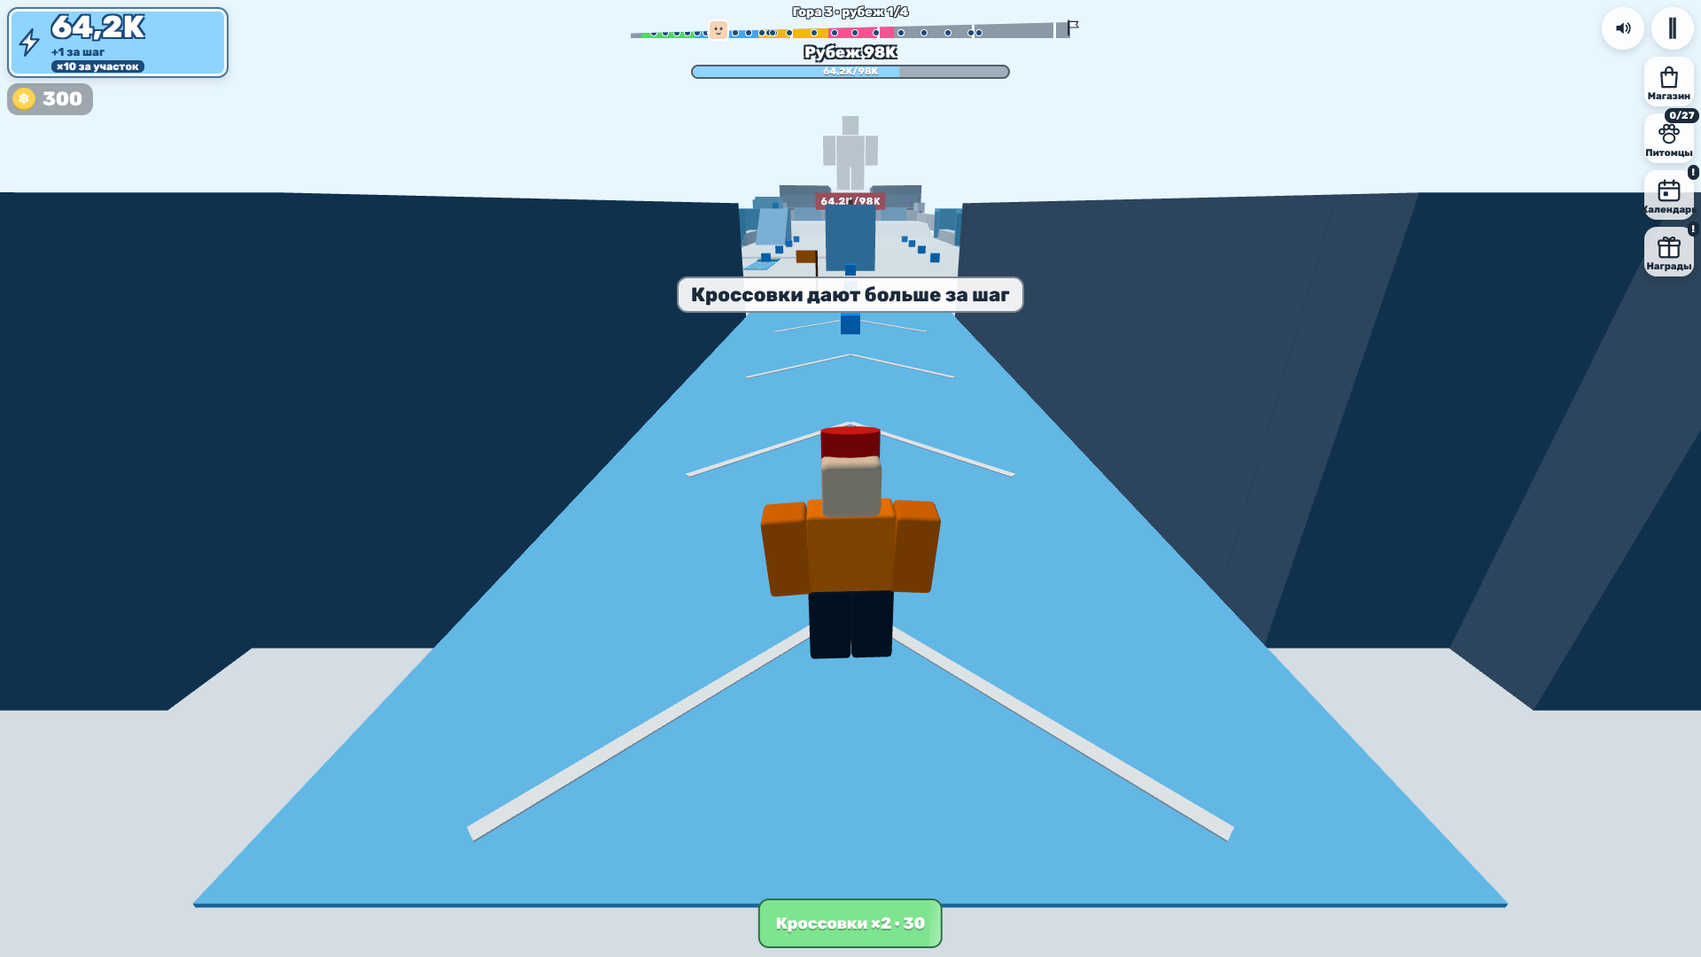
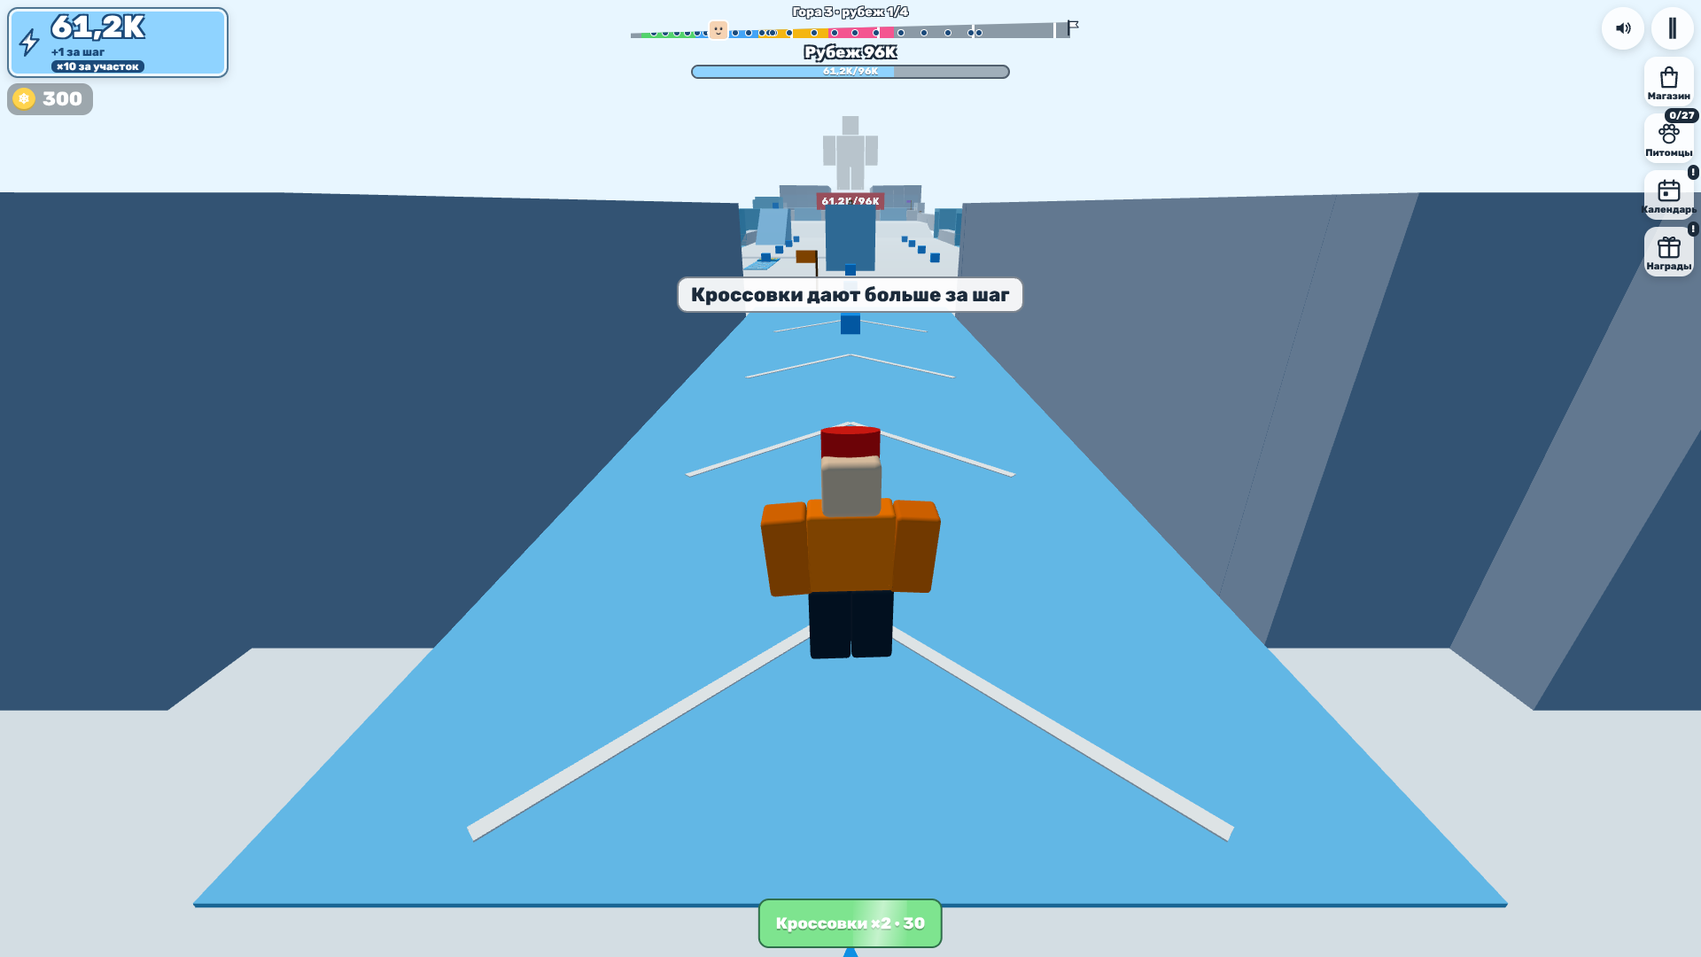
SP-02: физика на 120 ед/с — ноль пролётов героя и ботов, шаг симуляции 1,07 мс
2 000 случайных курсов на горах 1, 5, 10 против карниза, гротов, ограды и
воронки; боты: правило «мимо стены узкого места» срабатывало на любом шаге
вбок — бот срезал выход из грота сквозь стену и за ограду (исправлено).

Claude-Session: https://claude.ai/code/session_01MjGxzPesTLqozMdbKebqkx

diff --git a/tests/sim/speed120.test.ts b/tests/sim/speed120.test.ts
@@ -1,0 +1,143 @@
+import { describe, expect, it } from 'vitest';
+import { readFileSync } from 'node:fs';
+import { resolve } from 'node:path';
+import { buildLevel, FLOOR_THICKNESS } from '../../src/level/builder.ts';
+import { createCollisionWorld } from '../../src/sim/collision.ts';
+import { createHero, stepHero } from '../../src/sim/controller.ts';
+import { controllerParams, createSim } from '../../src/sim/world.ts';
+import { createRng } from '../../src/core/rng.ts';
+import { mergePatch } from '../../src/content/pace.ts';
+import type { LevelData } from '../../src/level/types.ts';
+import type { BalanceJson, BotsJson, TuningJson, WorldsJson } from '../../src/content/types.ts';
+
+// SP-02 (docs/01-gdd.md 20.3, 20.11): the run of «Размах» goes up to 120 units/s. The controller splits a tick into
+// substeps of half the capsule radius (up to 8): at 120 that is 4 — no wall of the open slope is passed through. The
+// hero at 120 from 2 000 random starts and courses against the carniz of the ridges, the walls of the grottos, the fence
+// and the summit funnel of mountains 1, 5, 10 — never on the other side; the bots at 120 never out of the slope but in
+// a grotto, never in the funnel snow. No game number changes here: 120 is set on a copy of tuning.json.
+const root = resolve(__dirname, '../..');
+const read = (f: string): unknown => JSON.parse(readFileSync(resolve(root, 'content/avalanche', f), 'utf8'));
+const base = mergePatch(read('tuning.json'), read('pace/open/tuning.json')) as unknown as TuningJson;
+const tuning: TuningJson = { ...base, controller: { ...base.controller, maxSpeed: 120 } };
+const balance = mergePatch(read('balance.json'), read('pace/open/balance.json')) as unknown as BalanceJson;
+const bots = read('bots.json') as BotsJson;
+const worlds = read('pace/open/worlds.json') as WorldsJson;
+const wallHeight = tuning.bounds?.wallHeight ?? 0;
+const SPEED = 120;
+const DT = 1 / 60;
+const TRIALS = 2000;
+
+/** Is (x, y, z) past a wall: in a carniz below its top, out of the slope but in a grotto, through a grotto's back wall, in the funnel snow. */
+function walls(level: LevelData, carnizToo: boolean): (x: number, y: number, z: number) => string | null {
+  const half = level.width / 2;
+  const side = level.niches.filter((n) => n.kind !== 'tunnel' && n.kind !== 'ledge');
+  const carniz = carnizToo ? level.boxes.filter((b) => b.kind === 'floor' && b.max[1] - b.min[1] > FLOOR_THICKNESS + 0.5 && b.max[0] - b.min[0] < level.width - 1) : [];
+  const f = level.funnel;
+  return (x, y, z) => {
+    for (const b of carniz) if (x > b.min[0] + 0.2 && x < b.max[0] - 0.2 && z > b.min[2] + 0.3 && z < b.max[2] - 0.3 && y < b.max[1] - 0.3) return `carniz at z ${b.min[2]}`;
+    if (Math.abs(x) > half + 0.2) {
+      const n = side.find((s) => z > s.box.min[2] - 0.05 && z < s.box.max[2] + 0.05 && Math.sign(x) === (s.side === 'left' ? -1 : 1));
+      if (!n) return 'past the fence';
+      if (x < n.box.min[0] - 0.05 || x > n.box.max[0] + 0.05) return `through the back wall of the grotto at z ${n.z}`;
+    }
+    if (f && z > f.z0 && z < level.length) {
+      const edge = f.x0 + (f.x1 - f.x0) * Math.min(1, (z - f.z0) / (f.z1 - f.z0));
+      if (Math.abs(x) > edge + 0.05) return 'in the funnel snow';
+    }
+    return null;
+  };
+}
+
+describe('SP-02: physics at 120 units/s', () => {
+  for (const i of [0, 4, 9]) {
+    it(`mountain ${i + 1}: the hero at 120 from ${TRIALS} random starts against the carniz, the grottos, the fence and the funnel — never past a wall`, () => {
+      const w = worlds.worlds[i]!;
+      const level = buildLevel(w, { wallHeight });
+      const world = createCollisionWorld(level.staticTriangles, level.boundsTriangles);
+      const params = controllerParams(tuning, SPEED);
+      const past = walls(level, true);
+      const half = level.width / 2;
+      const rng = createRng(1000 + i);
+      const carniz = level.boxes.filter((b) => b.kind === 'floor' && b.max[1] - b.min[1] > FLOOR_THICKNESS + 0.5 && b.max[0] - b.min[0] >= 3 && b.max[0] - b.min[0] < level.width - 1);
+      const grottos = level.niches.filter((n) => n.kind !== 'tunnel' && n.kind !== 'ledge');
+      const f = level.funnel!;
+      const camp = level.safeZones[0]![1];
+      const deg = Math.PI / 180;
+      const bad: string[] = [];
+      const runs = { carniz: 0, grotto: 0, fence: 0, funnel: 0 };
+      for (let t = 0; t < TRIALS; t++) {
+        const family = (['carniz', 'grotto', 'fence', 'funnel'] as const)[t % 4]!;
+        let x = 0;
+        let z = 0;
+        let dir = 0;
+        if (family === 'carniz') {
+          const b = carniz[rng.int(carniz.length)]!;
+          x = rng.range(b.min[0] + 1.5, b.max[0] - 1.5);
+          z = b.min[2] - rng.range(2, 10);
+          dir = rng.range(-70, 70) * deg;
+        } else if (family === 'grotto') {
+          const n = grottos[rng.int(grottos.length)]!;
+          x = rng.range(n.box.min[0] + 1.5, n.box.max[0] - 1.5);
+          z = rng.range(n.box.min[2] + 1.5, n.box.max[2] - 1.5);
+          dir = rng.range(-180, 180) * deg;
+        } else if (family === 'fence') {
+          const sign = rng.chance(0.5) ? 1 : -1;
+          z = rng.range(camp + 5, f.z0 - 5);
+          if (grottos.some((n) => (n.side === 'left' ? -1 : 1) === sign && Math.abs(z - n.z) < (n.box.max[2] - n.box.min[2]) / 2 + 4)) continue;
+          x = sign * (half - rng.range(2, 10));
+          // Towards the fence, within 70° of straight at it.
+          dir = sign * (90 + rng.range(-70, 70)) * deg;
+        } else {
+          const sign = rng.chance(0.5) ? 1 : -1;
+          z = rng.range(f.z0 + 2, level.length - 2);
+          const edge = f.x0 + (f.x1 - f.x0) * Math.min(1, (z - f.z0) / (f.z1 - f.z0));
+          x = sign * Math.max(1, edge - rng.range(2, 8));
+          dir = sign * (90 + rng.range(-70, 70)) * deg;
+        }
+        // In a grotto: its own floor (floorAt knows the track only).
+        const y = family === 'grotto' ? grottos.find((n) => x >= n.box.min[0] && x <= n.box.max[0] && z >= n.box.min[2] && z <= n.box.max[2])!.y : level.floorAt(x, z);
+        if (!Number.isFinite(y) || past(x, y, z)) continue;
+        runs[family]++;
+        const hero = createHero([x, y + 0.05, z]);
+        const mx = Math.sin(dir);
+        const mz = Math.cos(dir);
+        hero.vel.set(mx * SPEED, 0, mz * SPEED);
+        hero.onGround = true;
+        for (let k = 0; k < 30; k++) {
+          stepHero(hero, { moveX: mx, moveZ: mz, jump: false, jumpHeld: false }, DT, world, params, level.killY);
+          const why = past(hero.pos.x, hero.pos.y, hero.pos.z);
+          if (why) {
+            if (bad.length < 10) bad.push(`${family} from (${x.toFixed(1)}, ${z.toFixed(1)}) course ${(dir / deg).toFixed(0)}°: ${why} at (${hero.pos.x.toFixed(2)}, ${hero.pos.y.toFixed(2)}, ${hero.pos.z.toFixed(2)})`);
+            break;
+          }
+        }
+      }
+      expect(bad, bad.join('\n')).toEqual([]);
+      // Every family ran (a start on a hole or in a wall is skipped).
+      for (const [k, v] of Object.entries(runs)) expect(v, k).toBeGreaterThan(TRIALS / 8);
+    });
+  }
+
+  it('the bots at 120 on mountains 1, 5, 10 with avalanches: never out of the slope but in a grotto, never in the funnel snow', () => {
+    for (const i of [0, 4, 9]) {
+      const w = worlds.worlds[i]!;
+      const level = buildLevel(w, { wallHeight });
+      const curve = { ...balance.speedCurve, base: tuning.controller.baseSpeed, max: SPEED };
+      const s = createSim(level, tuning, { balance, speedCurve: curve, stat: 1e30, bots: { cfg: bots, count: 6, seed: 77 + i } });
+      const past = walls(level, false);
+      let fastest = 0;
+      const bad: string[] = [];
+      for (let t = 0; t < 90 * 60; t++) {
+        s.step({ moveX: 0, moveZ: 0, jump: false, jumpHeld: false }, DT);
+        for (const b of s.bots!.list) {
+          if (b.mode === 'away' || b.mode === 'off') continue;
+          const why = past(b.x, b.y, b.z);
+          if (why && bad.length < 10) bad.push(`mountain ${i + 1}, bot ${b.index} (${b.mode}) at (${b.x.toFixed(1)}, ${b.z.toFixed(1)}): ${why}`);
+        }
+      }
+      for (const b of s.bots!.list) fastest = Math.max(fastest, b.speedFactor * SPEED);
+      expect(bad, bad.join('\n')).toEqual([]);
+      expect(fastest).toBeGreaterThan(100);
+    }
+  }, 120_000);
+});

diff --git a/e2e/perf.spec.ts b/e2e/perf.spec.ts
@@ -1,0 +1,47 @@
+import { writeFileSync, mkdirSync } from 'node:fs';
+import { test, expect, testState, waitTicks } from './fixtures.ts';
+
+// «Размах» (SP) budgets (docs/01-gdd.md 20.11; docs/02-tech.md 9.5). SP-02: a simulation step on mountain 10 at CPU ×4
+// with 6 bots at 120 units/s (tuning.controller.maxSpeed 120, Speed at the cap) stays within 2 ms.
+const EVIDENCE = 'docs/evidence/sp';
+
+test('SP-02: a simulation step on mountain 10 at CPU ×4 with 6 bots at 120 units/s stays within 2 ms', async ({ page, openGame }) => {
+  test.setTimeout(240_000);
+  mkdirSync(EVIDENCE, { recursive: true });
+  await openGame('pace=open&quality=high');
+  await page.evaluate(() => window.__TEST__!.gotoWorld(10));
+  await waitTicks(page, 30);
+  await page.evaluate(() => {
+    window.__TEST__!.holdWave(900);
+    window.__TEST__!.setTuning('controller.maxSpeed', 120);
+    window.__TEST__!.setStat(1e30);
+    window.__TEST__!.teleport(60, -12);
+    window.__TEST__!.setAutoRun(true);
+  });
+  await waitTicks(page, 30);
+  const s0 = await testState(page);
+  expect(s0.bots.length, 'bots out').toBe(6);
+  const cdp = await page.context().newCDPSession(page);
+  await cdp.send('Emulation.setCPUThrottlingRate', { rate: 4 });
+  // 300 ticks one by one in the page (as open-perf.spec.ts): the other worker's load hits few of them.
+  const samples = await page.evaluate(() => {
+    const out: Array<[number, number, number]> = [];
+    for (let i = 0; i < 300; i++) {
+      window.__TEST__!.runSim(1 / 60);
+      const st = window.__TEST__!.state();
+      out.push([st.lastStepMs, st.lastSimMs, st.hero!.speed]);
+    }
+    return out;
+  });
+  await cdp.send('Emulation.setCPUThrottlingRate', { rate: 1 });
+  await page.evaluate(() => window.__TEST__!.setAutoRun(false));
+  const ms = samples.map((x) => x[0]);
+  const top = Math.max(...samples.map((x) => x[2]));
+  const mean = ms.reduce((a, b) => a + b, 0) / ms.length;
+  const sorted = [...ms].sort((a, b) => a - b);
+  const line = `mountain 10, CPU x4, 6 bots, run ${top.toFixed(0)} units/s, 300 ticks: sim.step mean ${mean.toFixed(3)} ms, median ${sorted[150]!.toFixed(3)} ms, p90 ${sorted[270]!.toFixed(3)} ms, max ${sorted[299]!.toFixed(3)} ms\n`;
+  writeFileSync(`${EVIDENCE}/perf-sim.txt`, line);
+  expect(top, 'ran at 120').toBeGreaterThan(110);
+  // The mean: CPU throttling stops the page in quanta, a single tick that meets one is ~15 ms (docs/допущения.md).
+  expect(mean, line).toBeLessThanOrEqual(2);
+});

diff --git a/src/sim/bots.ts b/src/sim/bots.ts
@@ -411,8 +411,10 @@ export function createBots(level: LevelData, opts: BotsOptions): BotCrowd {
   // Narrow places (docs/01-gdd.md 18.3): in a throat bots keep between its walls (closing in over its funnel); on the
   // side of a tunnel they keep inside its hall. Out on the track only, not in a cave.
   const narrows = (level.shapes ?? []).filter((n) => n.kind === 'throat' || n.kind === 'tunnel');
-  const squeeze = (b: Bot): void => {
-    if (inCave(b)) return;
+  /** Keeps the bot between the walls of a narrow place; true when it had to (it stood in a wall). */
+  const squeeze = (b: Bot): boolean => {
+    if (inCave(b)) return false;
+    const x0 = b.x;
     for (const n of narrows) {
       if (b.z < n.z0 || b.z > n.z1) continue;
       if (n.kind === 'throat') {
@@ -422,6 +424,7 @@ export function createBots(level: LevelData, opts: BotsOptions): BotCrowd {
         b.x = Math.max(-lim, Math.min(lim, b.x));
       } else if ((n.side === 'left') === b.x < 0) b.x = Math.max(n.x0 + LANE_MARGIN, Math.min(n.x1 - LANE_MARGIN, b.x));
     }
+    return b.x !== x0;
   };
   const move = (b: Bot, dt: number, speed: number): void => {
     const sl = slides.find((p) => on(p, b.x, b.z));
@@ -448,9 +451,10 @@ export function createBots(level: LevelData, opts: BotsOptions): BotCrowd {
       if (k < 1) break;
       left -= d;
     }
-    if (narrows.length) {
-      squeeze(b);
-      // A step sideways into a wall of a narrow place never ends: past it.
+    // A step sideways into a wall of a narrow place never ends: past it. Only when a wall stopped him (SP-02: out of a
+    // cave anywhere on a mountain with a narrow place the step to the mouth was dropped, and the bot cut through the
+    // cave wall and out past the fence).
+    if (narrows.length && squeeze(b)) {
       const wp = b.path[0];
       if (wp && Math.abs(wp[1] - b.z) <= REACH && Math.abs(wp[0] - b.x) > REACH) b.path.shift();
     }

diff --git a/e2e/camera.spec.ts b/e2e/camera.spec.ts
@@ -154,3 +154,29 @@ test('walk of mountain 1 by botPath: the camera is never inside a collider and n
   // A line camera → hero chest may graze a border edge for a frame while the camera catches up (hero out of a cave).
   expect(st.heroBlocked, st.bad.join('\n')).toBeLessThanOrEqual(Math.ceil(st.frames * 0.01));
 });
+
+// SP-02 (docs/01-gdd.md 20.3): at 120 units/s (tuning.controller.maxSpeed 120, Speed at the cap) the velocity lead of
+// the camera never puts it within hideDistance of the hero's body — 600 rendered frames running up mountain 10 (open).
+test('open, mountain 10 at 120 units/s: in 600 frames the camera never within hideDistance of the hero', async ({ page, openGame }) => {
+  test.setTimeout(300_000);
+  await openGame('pace=open');
+  await page.evaluate(() => window.__TEST__!.gotoWorld(10));
+  await waitTicks(page, 20);
+  await page.evaluate(() => {
+    window.__TEST__!.holdWave(900);
+    window.__TEST__!.setTuning('controller.maxSpeed', 120);
+    window.__TEST__!.setStat(1e30);
+    window.__TEST__!.teleport(60, -12);
+    window.__TEST__!.resetCameraStats();
+    window.__TEST__!.setAutoRun(true);
+  });
+  let top = 0;
+  while ((await page.evaluate(() => window.__TEST__!.cameraStats().frames)) < 600) {
+    await waitTicks(page, 6);
+    top = Math.max(top, (await testState(page)).hero!.speed);
+  }
+  await page.evaluate(() => window.__TEST__!.setAutoRun(false));
+  const st = await page.evaluate(() => window.__TEST__!.cameraStats());
+  expect(top, 'ran at 120').toBeGreaterThan(110);
+  expect(st.heroNear, JSON.stringify(st.bad)).toBe(0);
+});

diff --git a/src/test-api/index.ts b/src/test-api/index.ts
@@ -282,6 +282,8 @@ export interface TestApi {
   cameraInsideAvalanche(): boolean;
   /** Sets the stat (docs/02-tech.md 17.3); gates whose number it reaches open on the next tick. */
   setStat(n: number): void;
+  /** SP-02: a number of tuning.json by its path («controller.maxSpeed»), applied as a ?debug=1 slider would. */
+  setTuning(path: string, value: number): void;
   /** SP-01: the record flag of this mountain at a point (it stands while the hero is RECORD_RETURN below it). */
   setRecord(x: number, y: number, z: number): void;
   /** Sets the coin balance (M3-02: the shoes button shows the first time coins reach the next pair). */
@@ -910,6 +912,13 @@ export function installTestApi(g: GameHandles): TestApi {
     giveBonus: () => g.sim?.giveBonus() ?? false,
     setStat(n) {
       if (g.sim) g.sim.progress.stat = n;
+    },
+    setTuning(path, value) {
+      const keys = path.split('.');
+      let o = content.tuning as unknown as Record<string, unknown>;
+      for (const k of keys.slice(0, -1)) o = o[k] as Record<string, unknown>;
+      o[keys[keys.length - 1]!] = value;
+      g.applyTuning();
     },
     setRecord(x, y, z) {
       if (g.sim) g.sim.record = { x, y, z };

diff --git a/progress.md b/progress.md
@@ -42,6 +42,14 @@
 
 ## Записи
 
+### 2026-10-12 21:05 · SP-02 · физика на 120 ед/с
+- Сделано: проверка, что подшаги контроллера (0,5 радиуса, до 8; на 120 ед/с — 4) держат все стены open: герой на 120 с 2 000 случайных стартов и курсов на каждой из гор 1, 5, 10 против карниза рубежей, стен гротов, ограды и воронки вершины — ноль пролётов (при 1 подшаге тот же тест находит пролёты во всех четырёх семействах — тест рабочий); стены не утолщались, `worlds.json` не менялся. Боты на 120: найден и исправлен дефект, от скорости не зависящий — на горах с тесниной или тоннелем правило «шаг вбок в стену узкого места — мимо» срабатывало на любом шаге вбок, и бот, выходя из грота, срезал путь по диагонали сквозь стену грота и за ограду; теперь только когда стена его и правда остановила. Хук `setTuning` в `__TEST__` (как ползунок `?debug=1`)
+- Тесты: `npm run typecheck` — ок; `npm test` — 373 прошло, 0 упало (новый `tests/sim/speed120.test.ts` — 4); e2e `perf.spec.ts` (новый) — шаг симуляции на горе 10 при CPU ×4, 6 ботах и беге 120: среднее 1,07 мс, медиана 0,5 мс (`docs/evidence/sp/perf-sim.txt`); `camera.spec.ts` — новый тест: 600 кадров на 120 ед/с, камера ни разу ближе `hideDistance` к телу героя; `bots.spec.ts`, `rg-throat.spec.ts`, `rg-tunnel.spec.ts` — 8 прошло
+- Данные: нет (120 ставит тест на копии `tuning.json`; в данные потолок 120 придёт в SP-03)
+- Разведка: подшаги уже есть, коллайдер — треугольники, стены гротов 1 ед при капсуле радиусом 1 и подшаге 0,5 не пробиваются; боты кинематические, их путь от скорости не зависит (точки пути, а не шаги), поэтому «на 120» проверял путь: вне склона только в гроте, в снегу воронки — никогда
+- Дальше: перевод `e2e/base-route.ts` на координаты из данных, затем SP-03 (разгон и длины)
+- Вопросы: нет
+
 ### 2026-10-12 20:36 · SP-01 · камера: воронка вершины, флажок рекорда, возврат вида после гротов
 - Сделано: вершина open — воронка (`worlds-spec.json summit: { funnel: true, funnelLength: 40 }`, портал 24 → 32): с каждой стороны снежная призма от края склона к столбу портала и дальше до конца вершины; стенки косые (новый примитив `LevelPrism` — треугольники коллайдера героя и камеры, тот же меш в чанке, невидимая стенка над ней), герой скользит вдоль них в портал; боты на вершине держатся внутри воронки. Рама портала и так не была в наборе коллизий (боксы `solid: false`); столб света не рисуется, пока камера в нём (`wayMarks.guard`). Флажок рекорда не рисуется на линии камера → герой и ближе `hideDistance × flagHide` к камере (`guardRecordFlag` в `banner-signs.ts`). Камера `backBehind: "run"`: после кадра лавины, кадра грота и выхода из любого бокового грота вид за 1 с уходит за спину по направлению бега (стоит — вверх по склону) и следит за бегом до конца возврата; дистанция возвращается за то же время; `"before"` — как было
 - Тесты: `npm run typecheck` — ок; `npm test` — 369 прошло, 0 упало (новые: `tests/level/funnel.test.ts` 12, `tests/render/camera-return.test.ts` 5 — снимок «before» записан на камере до правки, `tests/render/record-flag.test.ts` 3); e2e `sp-camera.spec.ts` — 5 прошло (10 гротов гор 1–3, вершина −14/0/+14, флажок 300 кадров на дорожке и на склоне; без `flagHide` тест флажка красный — 301 кадр); `camera.spec.ts`, `fm-way.spec.ts`, `rg-camera-grotto.spec.ts`, `fm-camera.spec.ts`, `cave-shot.spec.ts`, `fm-bounds.spec.ts` — 21 прошло
